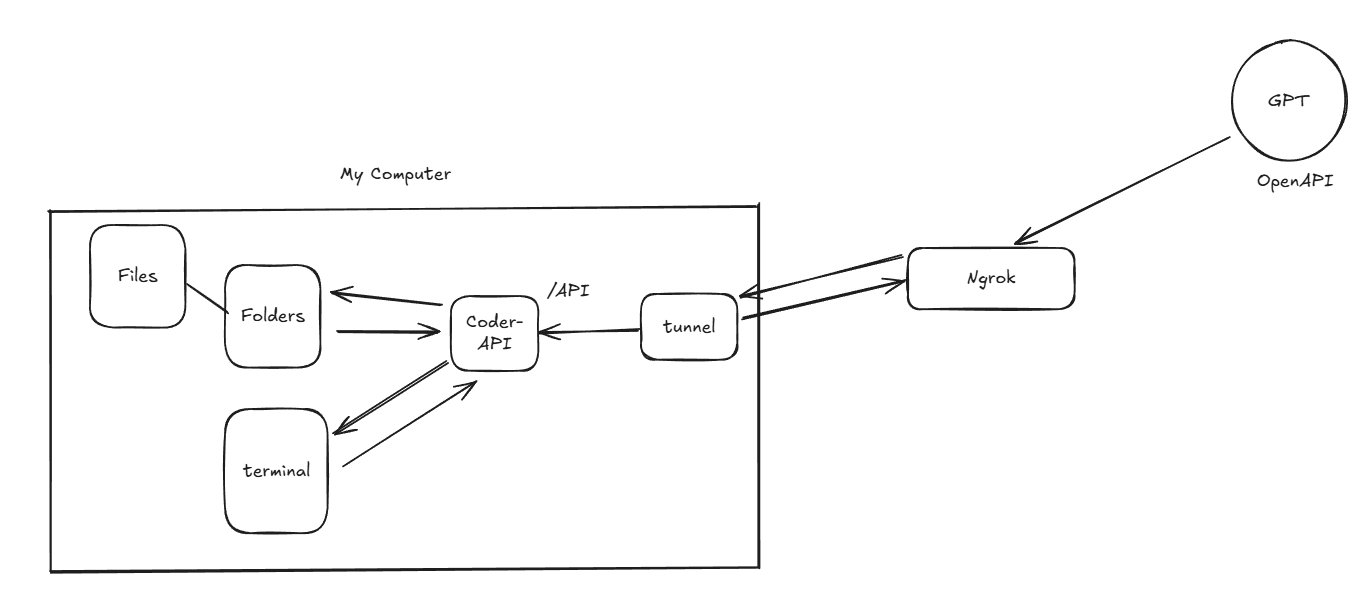
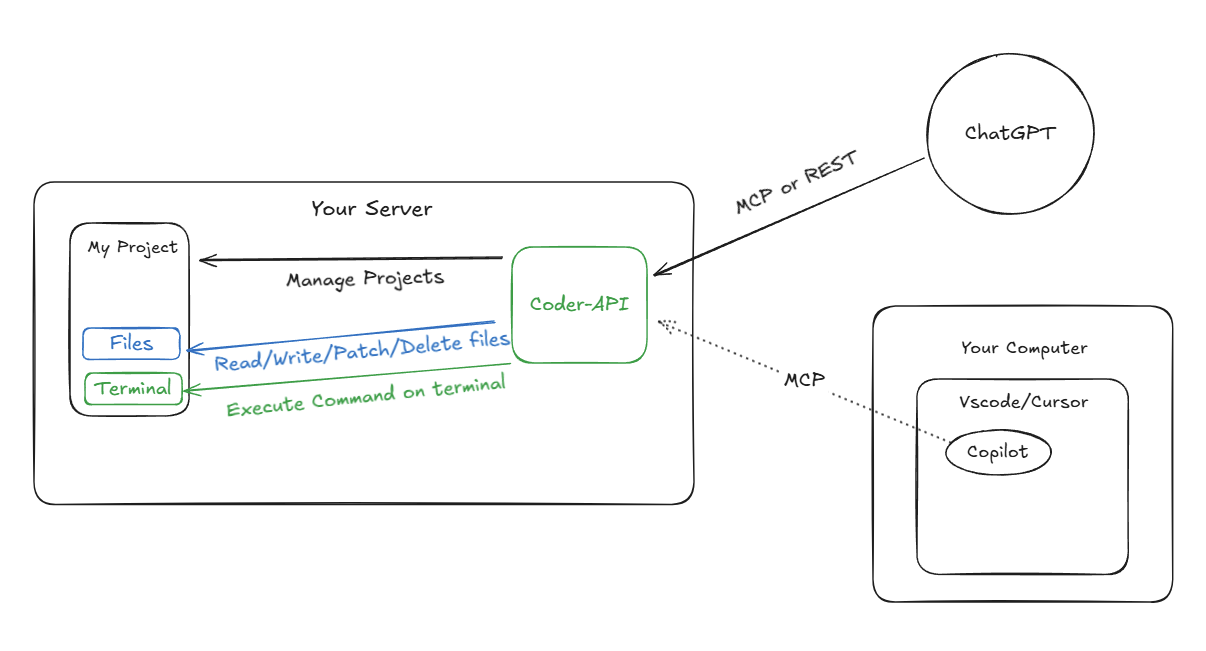
docs: Update README to refine AI design description and streamline contribution guidelines; add new architecture tunnel diagram

diff --git a/README.md b/README.md
@@ -8,7 +8,7 @@ Coder-API bridges the gap between AI models and code execution, providing a comp
 - 🔧 **Project Management**: Clone repositories, create projects, manage workspaces
 - 📁 **File Operations**: Read, write, patch, and organize code files with precision
 - ⚡ **Code Execution**: Run bash commands and scripts in isolated project environments  
-- 🤖 **AI-First Design**: Native MCP support with automatic tool discovery for LLMs
+- 🤖 **AI Design**: Built with MCP support with automatic tool discovery for LLMs
 - 🛡 **Secure Sandbox**: All operations confined to designated workspace directories
 - 🌐 **Flexible Deployment**: Local development, cloud platforms, or tunneled access
 
@@ -92,6 +92,5 @@ Standardized protocol for AI assistant integration.
 
 1. Fork and clone the repo.
 2. Create a feature branch.
-3. Add tests for new features (see `tests/` if available).
-4. Run `pnpm lint` before submitting a PR.
-5. Open a pull request with a clear description.
+
+3. Open a pull request with a clear description.
